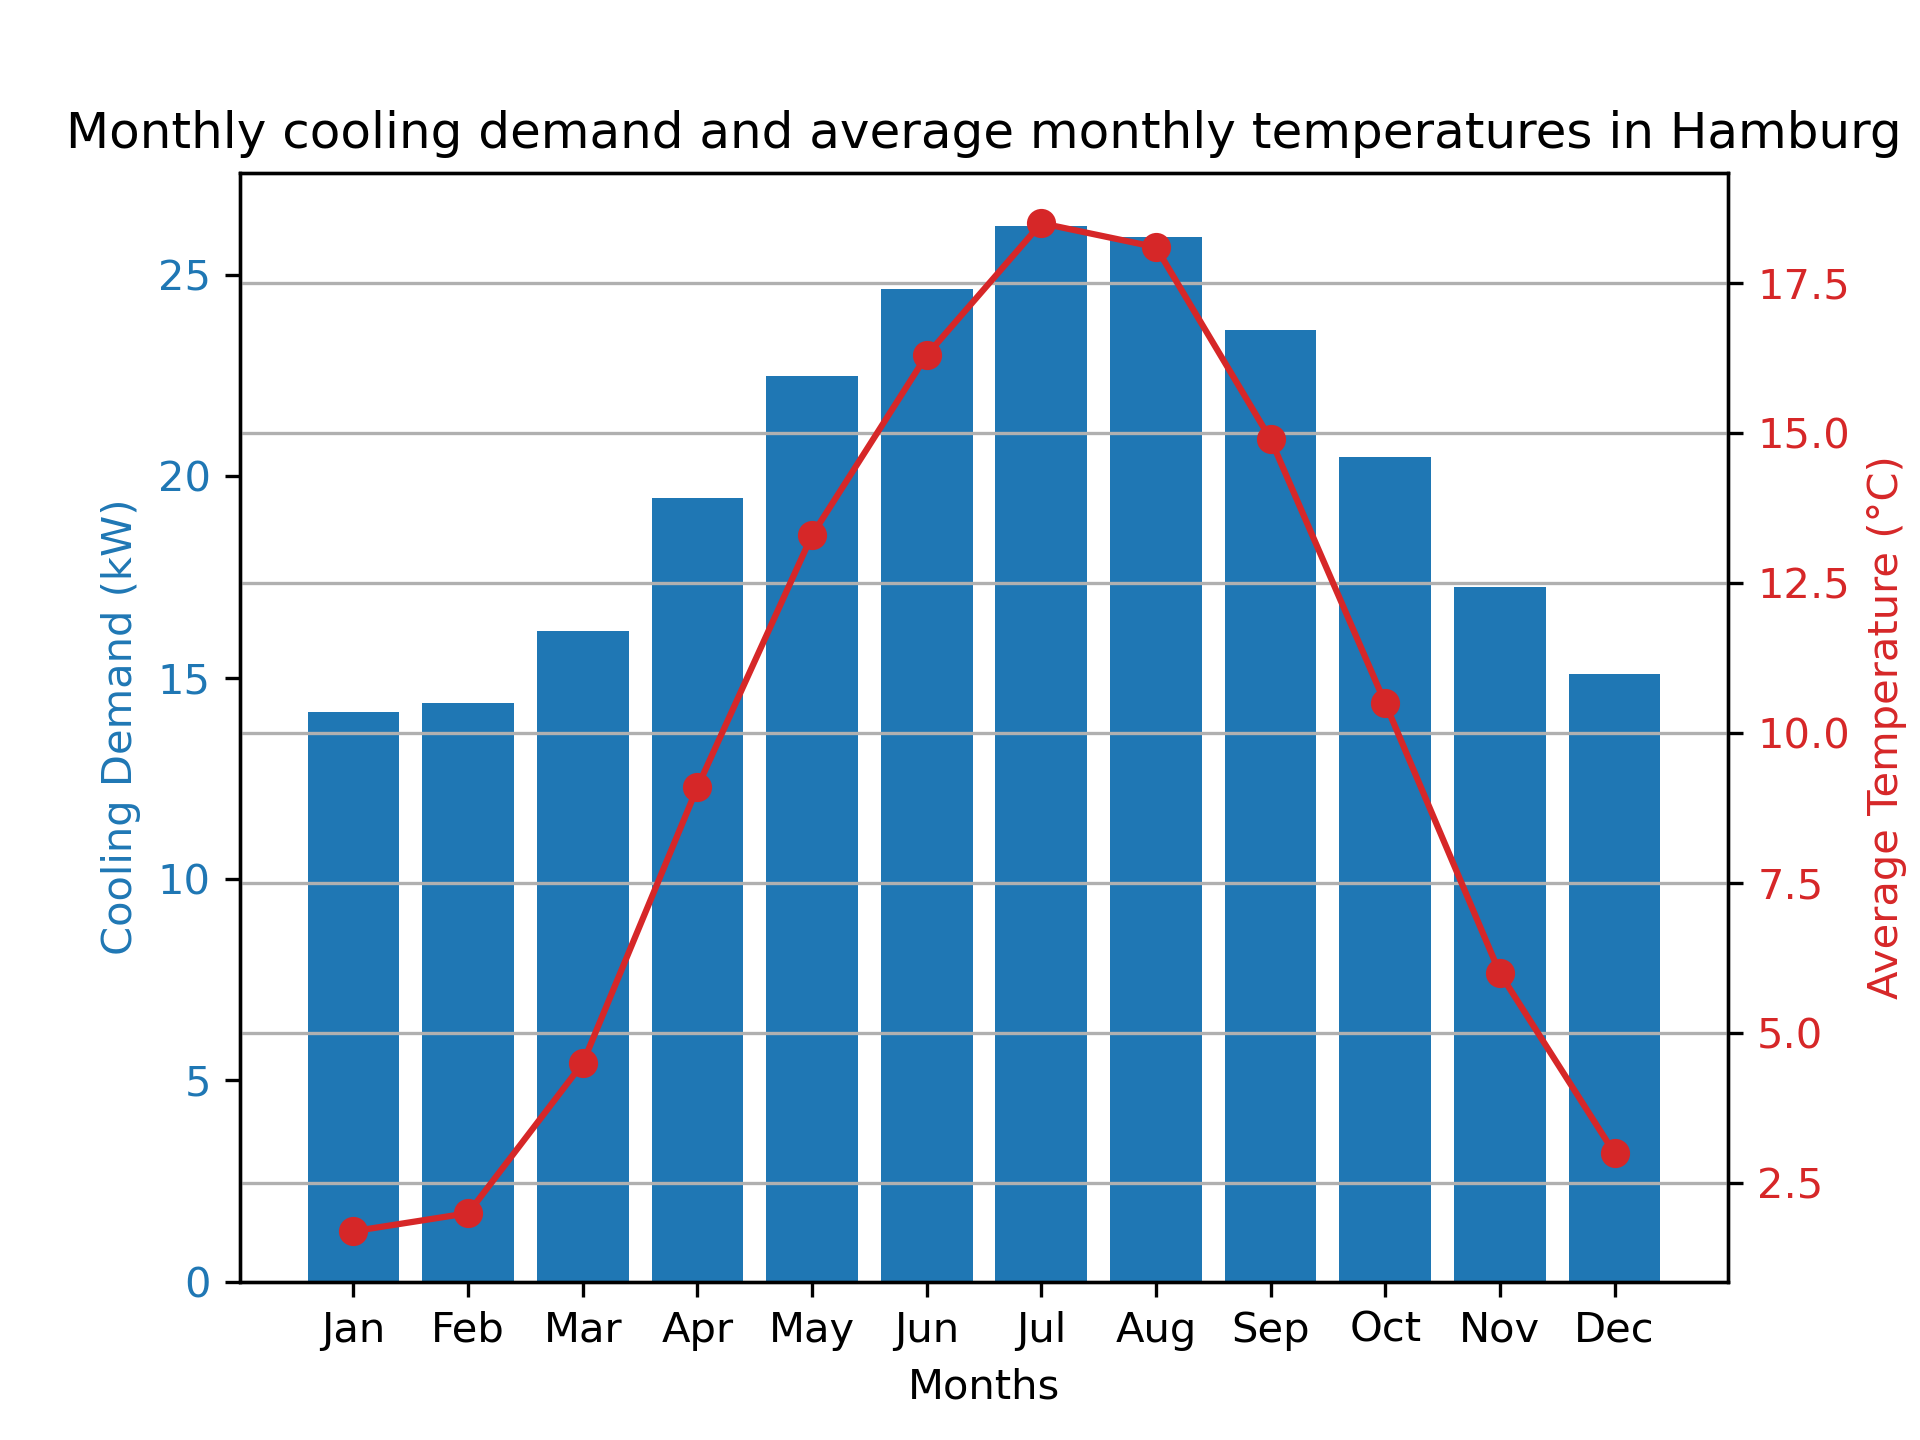
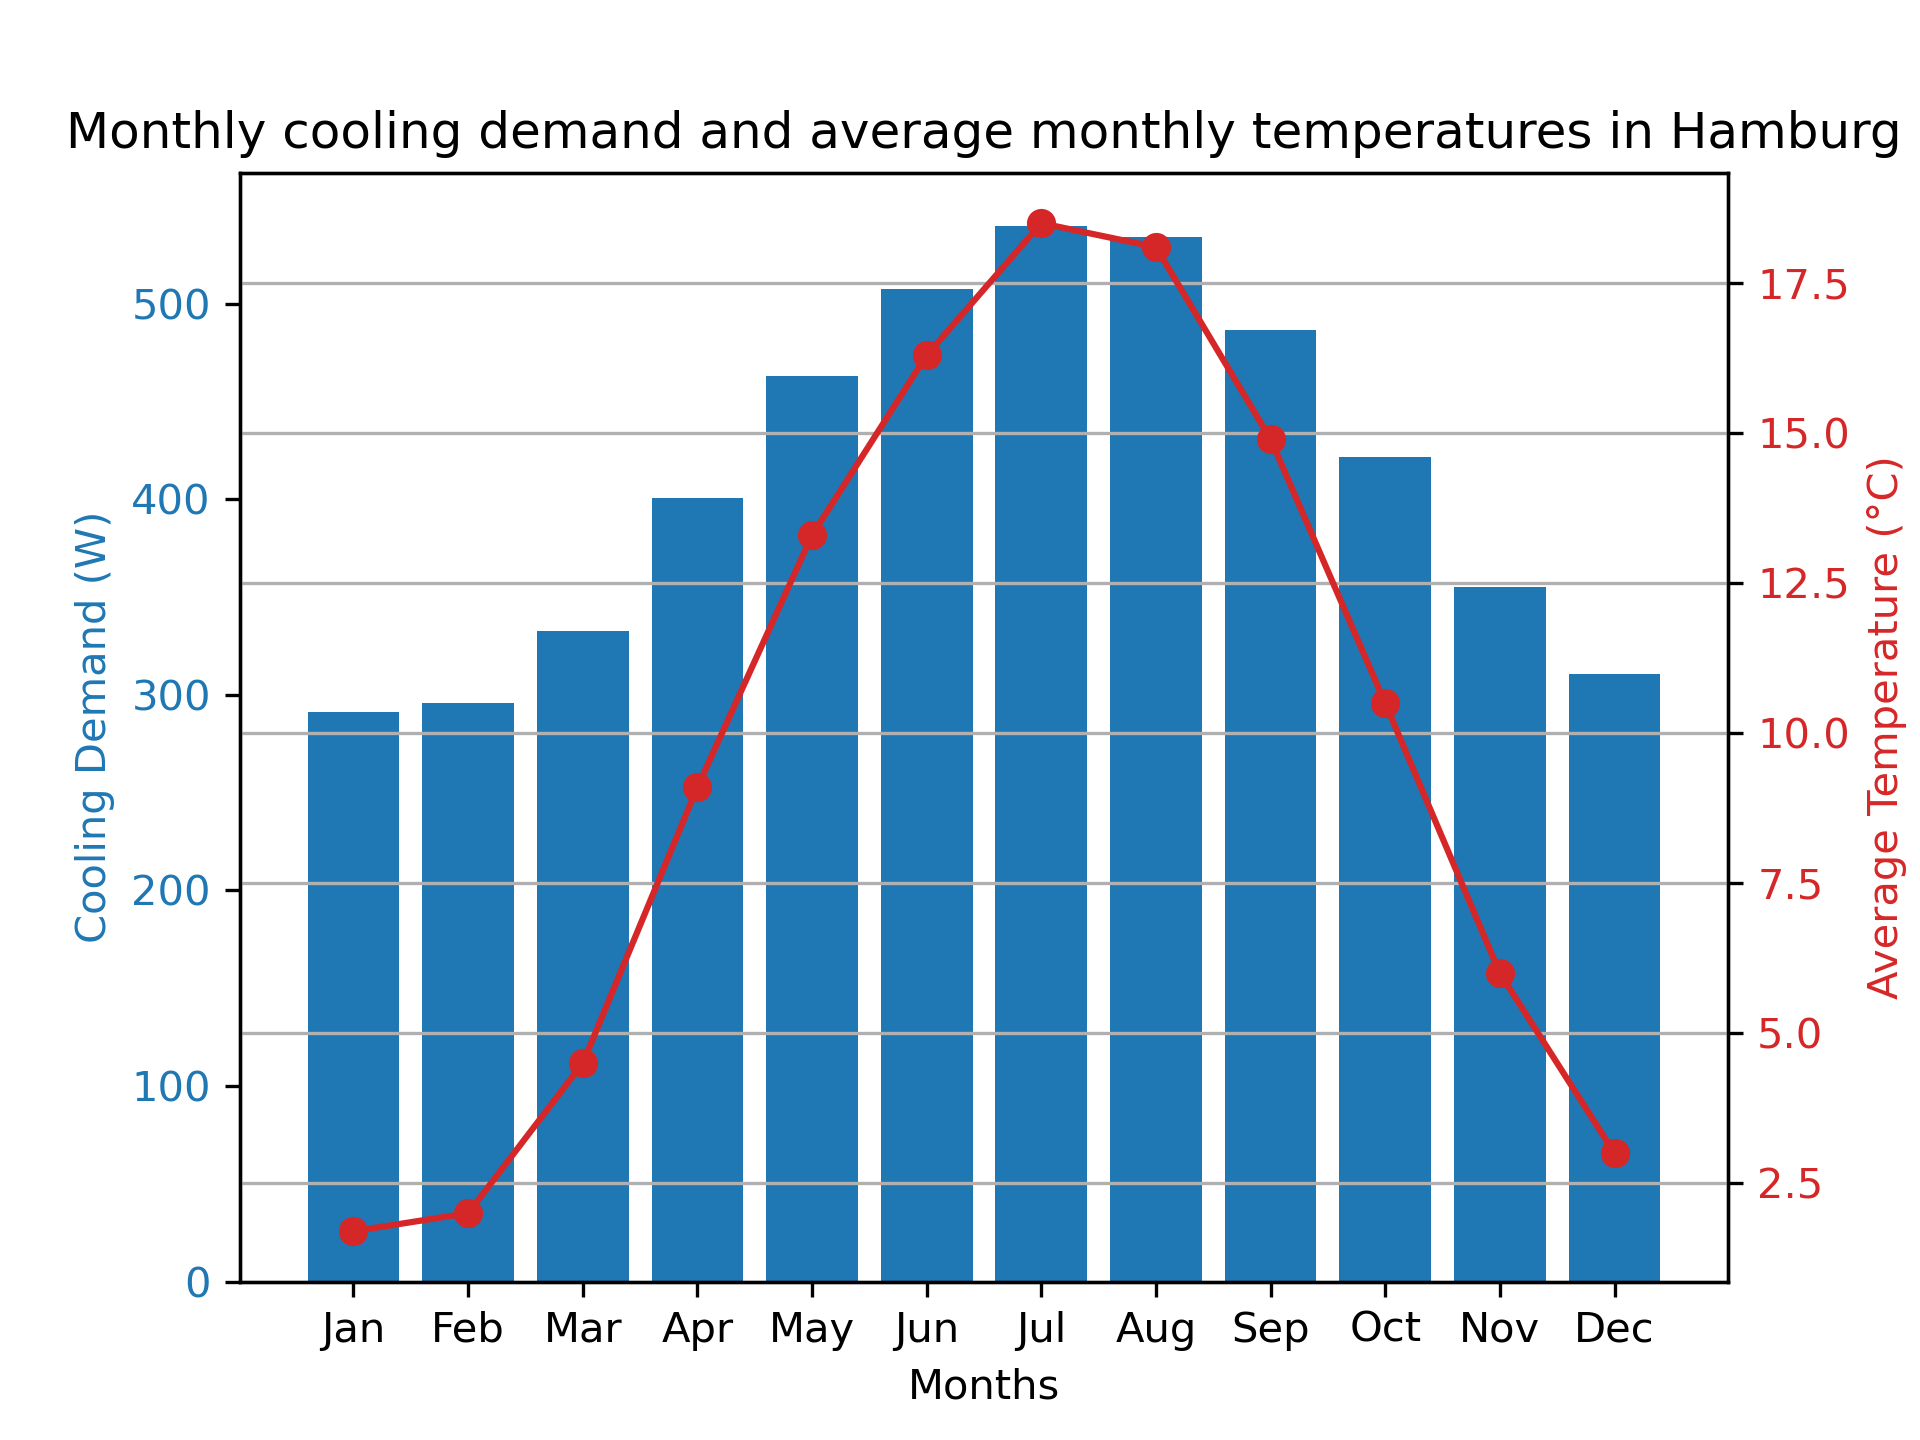
Update room class to calculate cooling demand

Changed region(s): [[0.0312, 0.3125, 0.125, 0.6562], [0.0625, 0.75, 0.125, 0.7812], [0.0625, 0.1875, 0.125, 0.2188]]

diff --git a/_roomClass.py b/_roomClass.py
@@ -5,27 +5,27 @@ class Room:
     def __init__(self, room_dimensions, floor_material, wall_material, ceiling_material, 
                  floor_thickness, wall_thickness, ceiling_thickness, desired_temp):
         self.room_size = room_dimensions # [length, width, height] in meters
-        self.desired_temp = desired_temp + 273.15
+        self.desired_temp = desired_temp + 273.15 # Convert to Kelvin
         self.materials = {"Polyurethane foam": 0.022, # heat transfer coefficient [W/mK]
                           "Concrete": 0.11}
-        self.structure = {"Wall": [self.materials[wall_material], wall_thickness/10], # Heat transfer coefficient, Convert cm to m
-                          "Floor": [self.materials[floor_material], floor_thickness/10],
-                          "Ceiling": [self.materials[ceiling_material], ceiling_thickness/10]}
+        self.structure = {"Wall": [self.materials[wall_material], wall_thickness/100], # Heat transfer coefficient, Convert cm to m
+                          "Floor": [self.materials[floor_material], floor_thickness/100],
+                          "Ceiling": [self.materials[ceiling_material], ceiling_thickness/100]}
 
     def _walls_area(self):
-        return self.room_size[0]*self.room_size[2]*2 + self.room_size[1]*self.room_size[2]
+        return self.room_size[0]*self.room_size[2]*2 + self.room_size[1]*self.room_size[2]*2 # in m^2
 
     def _floor_area(self):
-        return self.room_size[0]*self.room_size[1]
+        return self.room_size[0]*self.room_size[1] # in m^2
 
-    def _total_surface_area(self): # Unused method
-        return self._walls_area() + self._floor_area()*2
+    def _total_surface_area(self):
+        return self._walls_area() + self._floor_area()*2 # in m^2
 
     def _heat_power_demand(self, material, thickness, insulator_area, outside_temp):
-        heat_transfer_coeff = material / thickness # U = k/L
-        delta_temperature = self.desired_temp - outside_temp
-        heat_demand = heat_transfer_coeff * insulator_area * delta_temperature # Q = U * A * deltaT
-        return heat_demand
+        heat_transfer_coeff = material / thickness # U [W/m^2K] = k[W/mK]/L[m]
+        delta_temperature = self.desired_temp - outside_temp # [K]
+        heat_demand = heat_transfer_coeff * insulator_area * delta_temperature # Q [W] = U [W/m^2K] * A [m^2] * deltaT [K]
+        return heat_demand # in Watts
 
     def total_power_demand(self, outside_temp): # outside_temp is a new external parameter
         hpd_walls = self._heat_power_demand(self.structure["Wall"][0], self.structure["Wall"][1],
@@ -34,7 +34,7 @@ class Room:
                                             self._floor_area(), outside_temp)
         hpd_ceiling = self._heat_power_demand(self.structure["Ceiling"][0], self.structure["Ceiling"][1],
                                               self._floor_area(), outside_temp)
-        return hpd_walls + hpd_floor + hpd_ceiling
+        return hpd_walls + hpd_floor + hpd_ceiling # in Watts
 
 class ClimateData:
     def __init__(self, average_temperatures):
@@ -43,11 +43,11 @@ class ClimateData:
         self.average_yearly_temp = sum(self.average_temperatures) / len(self.average_temperatures)
 
     def calculate_yearly_cooling_demand(self, room):
-        heating_demand = []
+        cooling_demand = []
         for avg_temp in self.average_temperatures:
             outside_temp = avg_temp + 273.15 # Convert to Kelvin
-            heating_demand.append(abs(room.total_power_demand(outside_temp)))
-        return heating_demand
+            cooling_demand.append(abs(room.total_power_demand(outside_temp)))
+        return cooling_demand # in Watts
 
 class Plotter:
     @staticmethod
@@ -57,7 +57,7 @@ class Plotter:
         # Plot heating demand as bar chart with blue color
         ax1.bar(months, cooling_demand, color='tab:blue')
         ax1.set_xlabel('Months')
-        ax1.set_ylabel('Cooling Demand (kW)', color='tab:blue')
+        ax1.set_ylabel('Cooling Demand (W)', color='tab:blue')
         ax1.tick_params(axis='y', labelcolor='tab:blue')
 
         # Create a twin axis for average temperature
